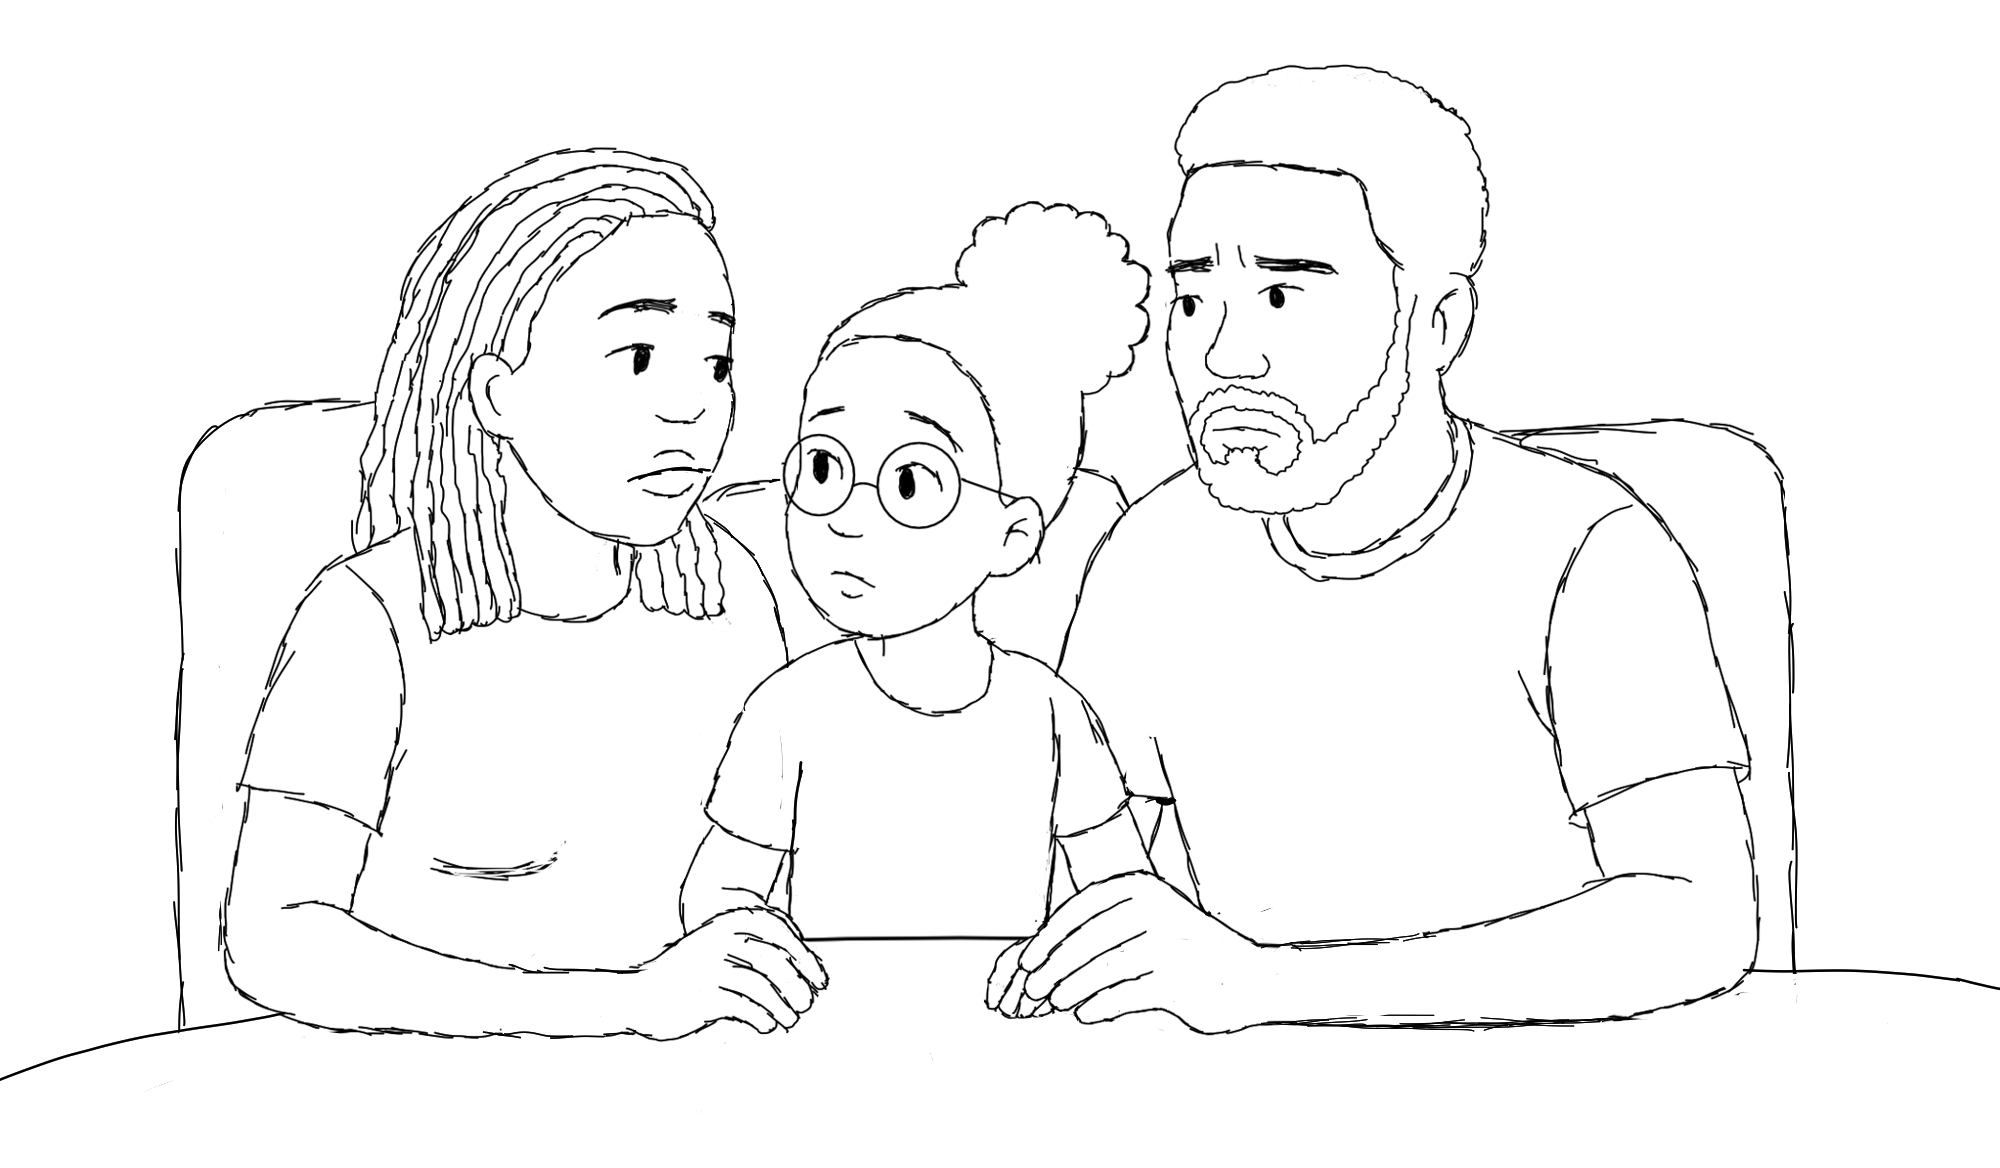
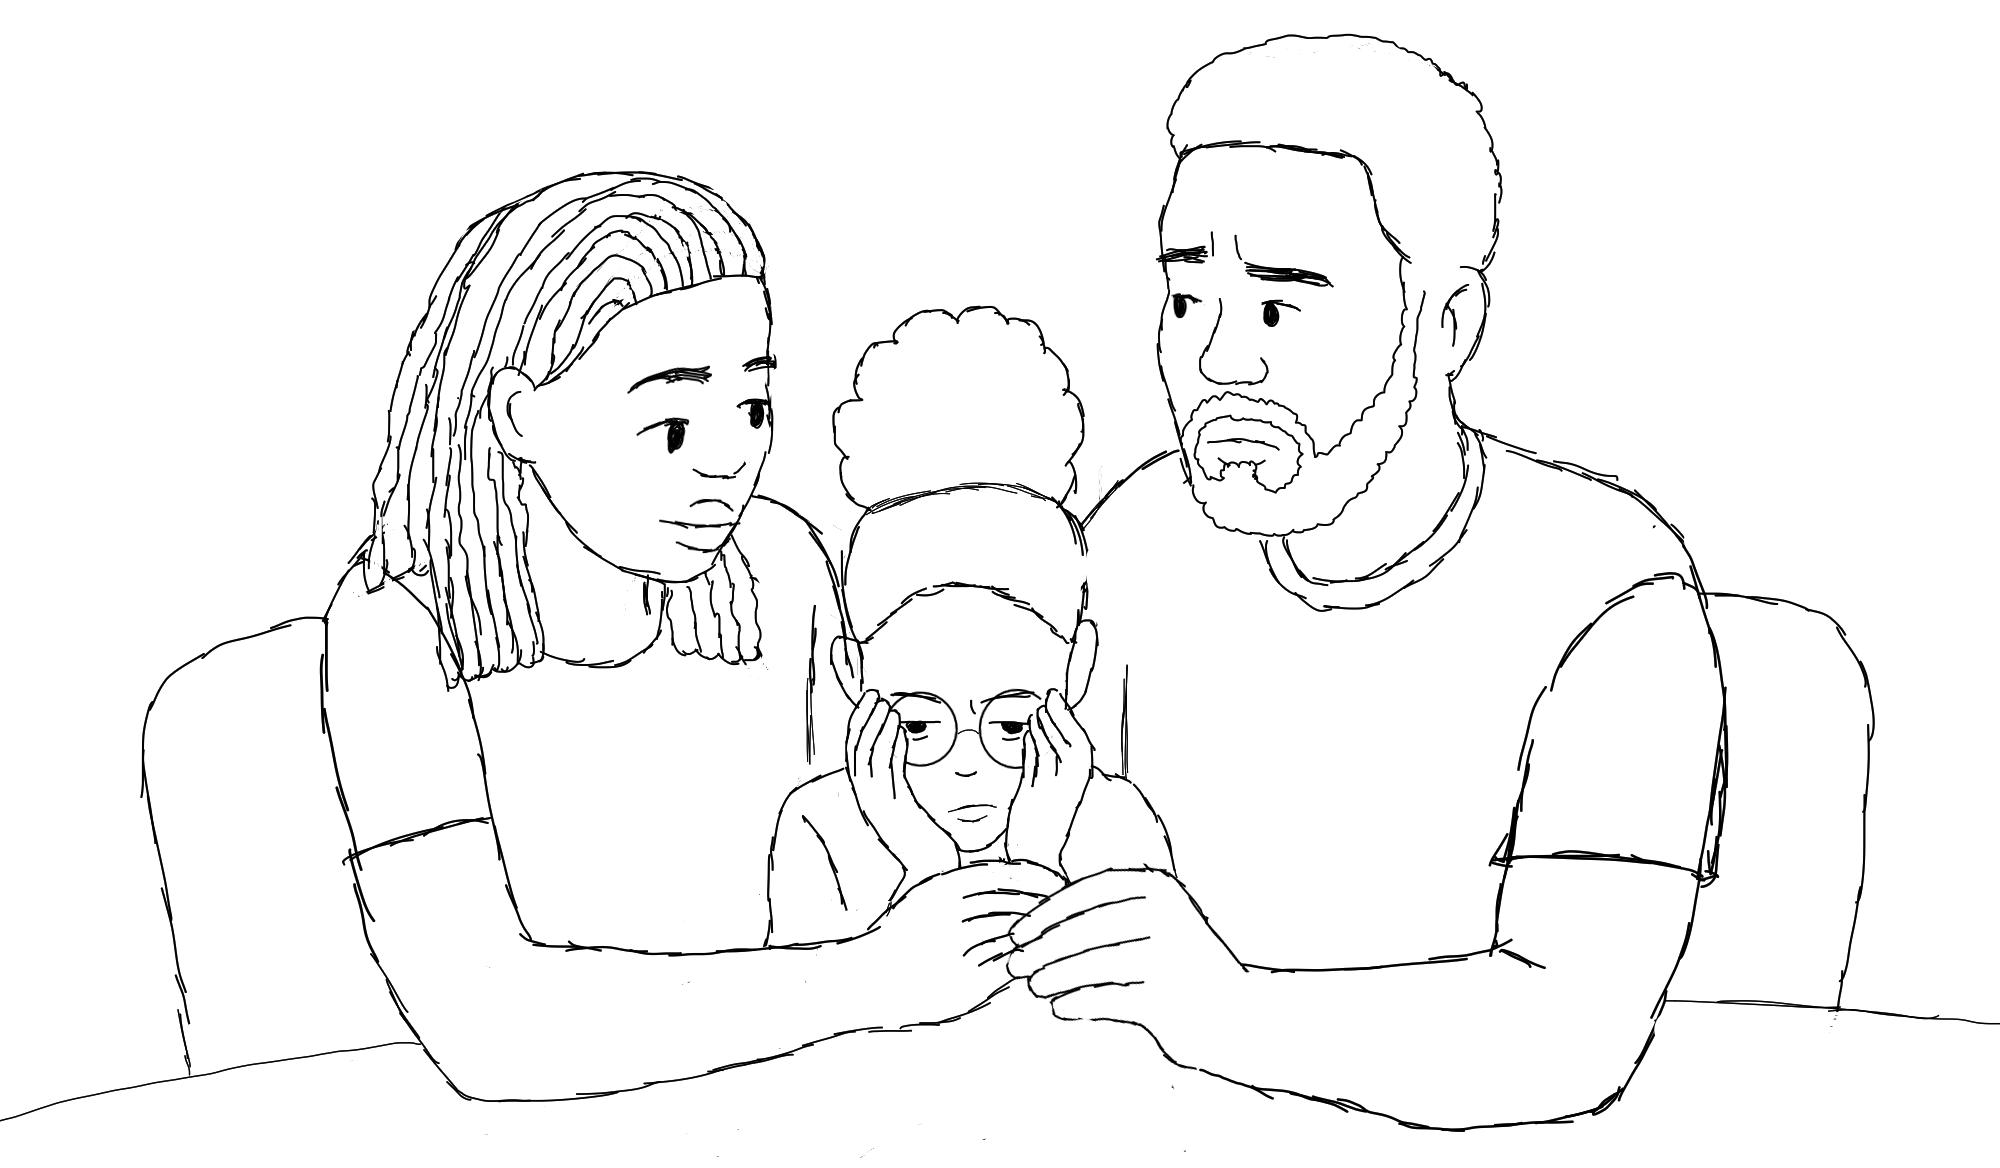
image edits

diff --git a/src/Styles/Page.css b/src/Styles/Page.css
@@ -271,7 +271,7 @@ a{
 .page-image-19, .page-image-21, .page-image-23,
 .page-image-26, .page-image-28, .page-image-29, 
 .page-image-31, .page-image-33, .page-image-36,
-.page-image-1-1, .page-image-4-4, .page-image-6-6, 
+.page-image-1-1, .page-image-4-4, .page-image-5-5, 
 .page-image-8-8, .page-image-9-9, .page-image-11-11,
 .page-image-14-14, .page-image-15-15,  .page-image-18-18, 
 .page-image-19-19, .page-image-21-21, .page-image-23-23,
@@ -293,7 +293,7 @@ a{
 
 .page-image-1, .page-image-1-1, .page-image-2, 
 .page-image-3, .page-image-4, .page-image-4-4, 
-.page-image-5, .page-image-6-6, .page-image-6,
+.page-image-5, .page-image-5-5, .page-image-6,
 .page-image-7, .page-image-8, .page-image-8-8, 
 .page-image-9, .page-image-10, .page-image-9-9, 
 .page-image-11, .page-image-11-11, .page-image-12,
@@ -318,15 +318,16 @@ a{
   box-shadow: 8px 8px 16px rgba(0,0,0,0.25);
 }
 
-.page-image-2, .page-image-3, .page-image-5, 
-.page-image-8, .page-image-8-8, .page-image-9, 
-.page-image-9-9, .page-image-11, .page-image-11-11, 
-.page-image-13, .page-image-16, .page-image-17, 
-.page-image-19, .page-image-22, .page-image-23, 
-.page-image-23-23, .page-image-26, .page-image-26-26, 
-.page-image-28, .page-image-28-28, .page-image-30, 
-.page-image-31, .page-image-31-31, .page-image-33, 
-.page-image-33-33, .page-image-36, .page-image-36-36{
+.page-image-2, .page-image-3, .page-image-5,
+.page-image-5-5, .page-image-8, .page-image-8-8, 
+.page-image-9, .page-image-9-9, .page-image-11, 
+.page-image-11-11, .page-image-13, .page-image-16, 
+.page-image-17, .page-image-19, .page-image-22, 
+.page-image-23, .page-image-23-23, .page-image-26, 
+.page-image-26-26, .page-image-28, .page-image-28-28, 
+.page-image-30, .page-image-31, .page-image-31-31, 
+.page-image-33, .page-image-33-33, .page-image-36, 
+.page-image-36-36{
   margin-top: 3.5rem;
 }
 
@@ -368,7 +369,7 @@ a{
 @media (min-width: 1950px) and (max-width: 3010px){
 .page-image-1, .page-image-1-1, .page-image-2, 
 .page-image-3, .page-image-4, .page-image-4-4, 
-.page-image-5, .page-image-6-6, .page-image-6,
+.page-image-5, .page-image-5-5, .page-image-6,
 .page-image-7, .page-image-8, .page-image-8-8, 
 .page-image-9, .page-image-10, .page-image-9-9, 
 .page-image-11, .page-image-11-11, .page-image-12,

diff --git a/src/Pages/Page5.jsx b/src/Pages/Page5.jsx
@@ -1,10 +1,13 @@
 import React, { useContext, useState, useEffect } from "react";
 import { MusicContext } from "../Context/MusicContext";
 import Image5 from "../Images/Image5.png";
+import Image5_5 from "../Images/Image5-5.png";
+import Star from "../Icons/Star.png";
 import "../Styles/Page.css";
 
 function Page5(){
   const { currentTimeRef, language, currentPage } = useContext(MusicContext);
+  const [flipped, setFlipped] = useState(true);
   const [, forceUpdate] = useState(0);
 
   useEffect(() => {
@@ -13,6 +16,19 @@ function Page5(){
     }, 200);
     return () => clearInterval(interval);
   }, []);
+
+     function stop(e){
+    e.stopPropagation();
+    e.preventDefault()
+    if (e.nativeEvent && e.nativeEvent.stopImmediatePropagation){
+      e.nativeEvent.stopImmediatePropagation();
+    }
+  };
+
+  function handleToggle(e){
+    e.stopPropagation();
+    setFlipped((prev) => !prev);
+  };
 
     const transcripts = {
       en: {
@@ -55,7 +71,15 @@ function Page5(){
 
   return(
     <section className="page">
-    <img src={Image5} alt="Page 5" className="page-image-5" />
+     <section className="image-wrapper" onClick={stop} onPointerDown={stop} onMouseDown={stop} onTouchStart={stop}>
+     {flipped ? (
+          <img src={Image5} alt="Page 5" className="page-image-5" />
+        ) : (
+          <img src={Image5_5} alt="Page 5" className="page-image-5-5" />
+        )}
+
+      <img src={Star} alt="Star" className="star-indicator" onClick={handleToggle} />
+      </section>
 
     <section className="page-text">
     {paragraphs.map((para, pIndex) => (

diff --git a/src/Pages/Page6.jsx b/src/Pages/Page6.jsx
@@ -1,14 +1,10 @@
 import React, { useContext, useState, useEffect } from "react";
 import { MusicContext } from "../Context/MusicContext";
 import Image6 from "../Images/Image6.png";
-import Image6_6 from "../Images/Image6-6.png";
-import Star from "../Icons/Star.png";
 import "../Styles/Page.css";
 
 function Page6(){
   const { currentTimeRef, language, currentPage } = useContext(MusicContext);
-   const [flipped, setFlipped] = useState(true);
-
      const [, forceUpdate] = useState(0);
    
      useEffect(() => {
@@ -17,19 +13,6 @@ function Page6(){
        }, 200); 
        return () => clearInterval(interval);
      }, []);
-
-   function stop(e){
-    e.stopPropagation();
-    e.preventDefault()
-    if (e.nativeEvent && e.nativeEvent.stopImmediatePropagation){
-      e.nativeEvent.stopImmediatePropagation();
-    }
-  };
-
-  function handleToggle(e){
-    e.stopPropagation();
-    setFlipped((prev) => !prev);
-  };
 
     const transcripts = {
       en: {
@@ -85,15 +68,8 @@ function Page6(){
     ))}
    </section>
 
-  <section className="image-wrapper" onClick={stop} onPointerDown={stop} onMouseDown={stop} onTouchStart={stop}>
-     {flipped ? (
-          <img src={Image6} alt="Page 6" className="page-image-6" />
-        ) : (
-          <img src={Image6_6} alt="Page 6" className="page-image-6-6" />
-        )}
+     <img src={Image6} alt="Page 6" className="page-image-6" />
 
-      <img src={Star} alt="Star" className="star-indicator" onClick={handleToggle} />
-      </section>
       <section className="even">6</section>
     </section>
   );
